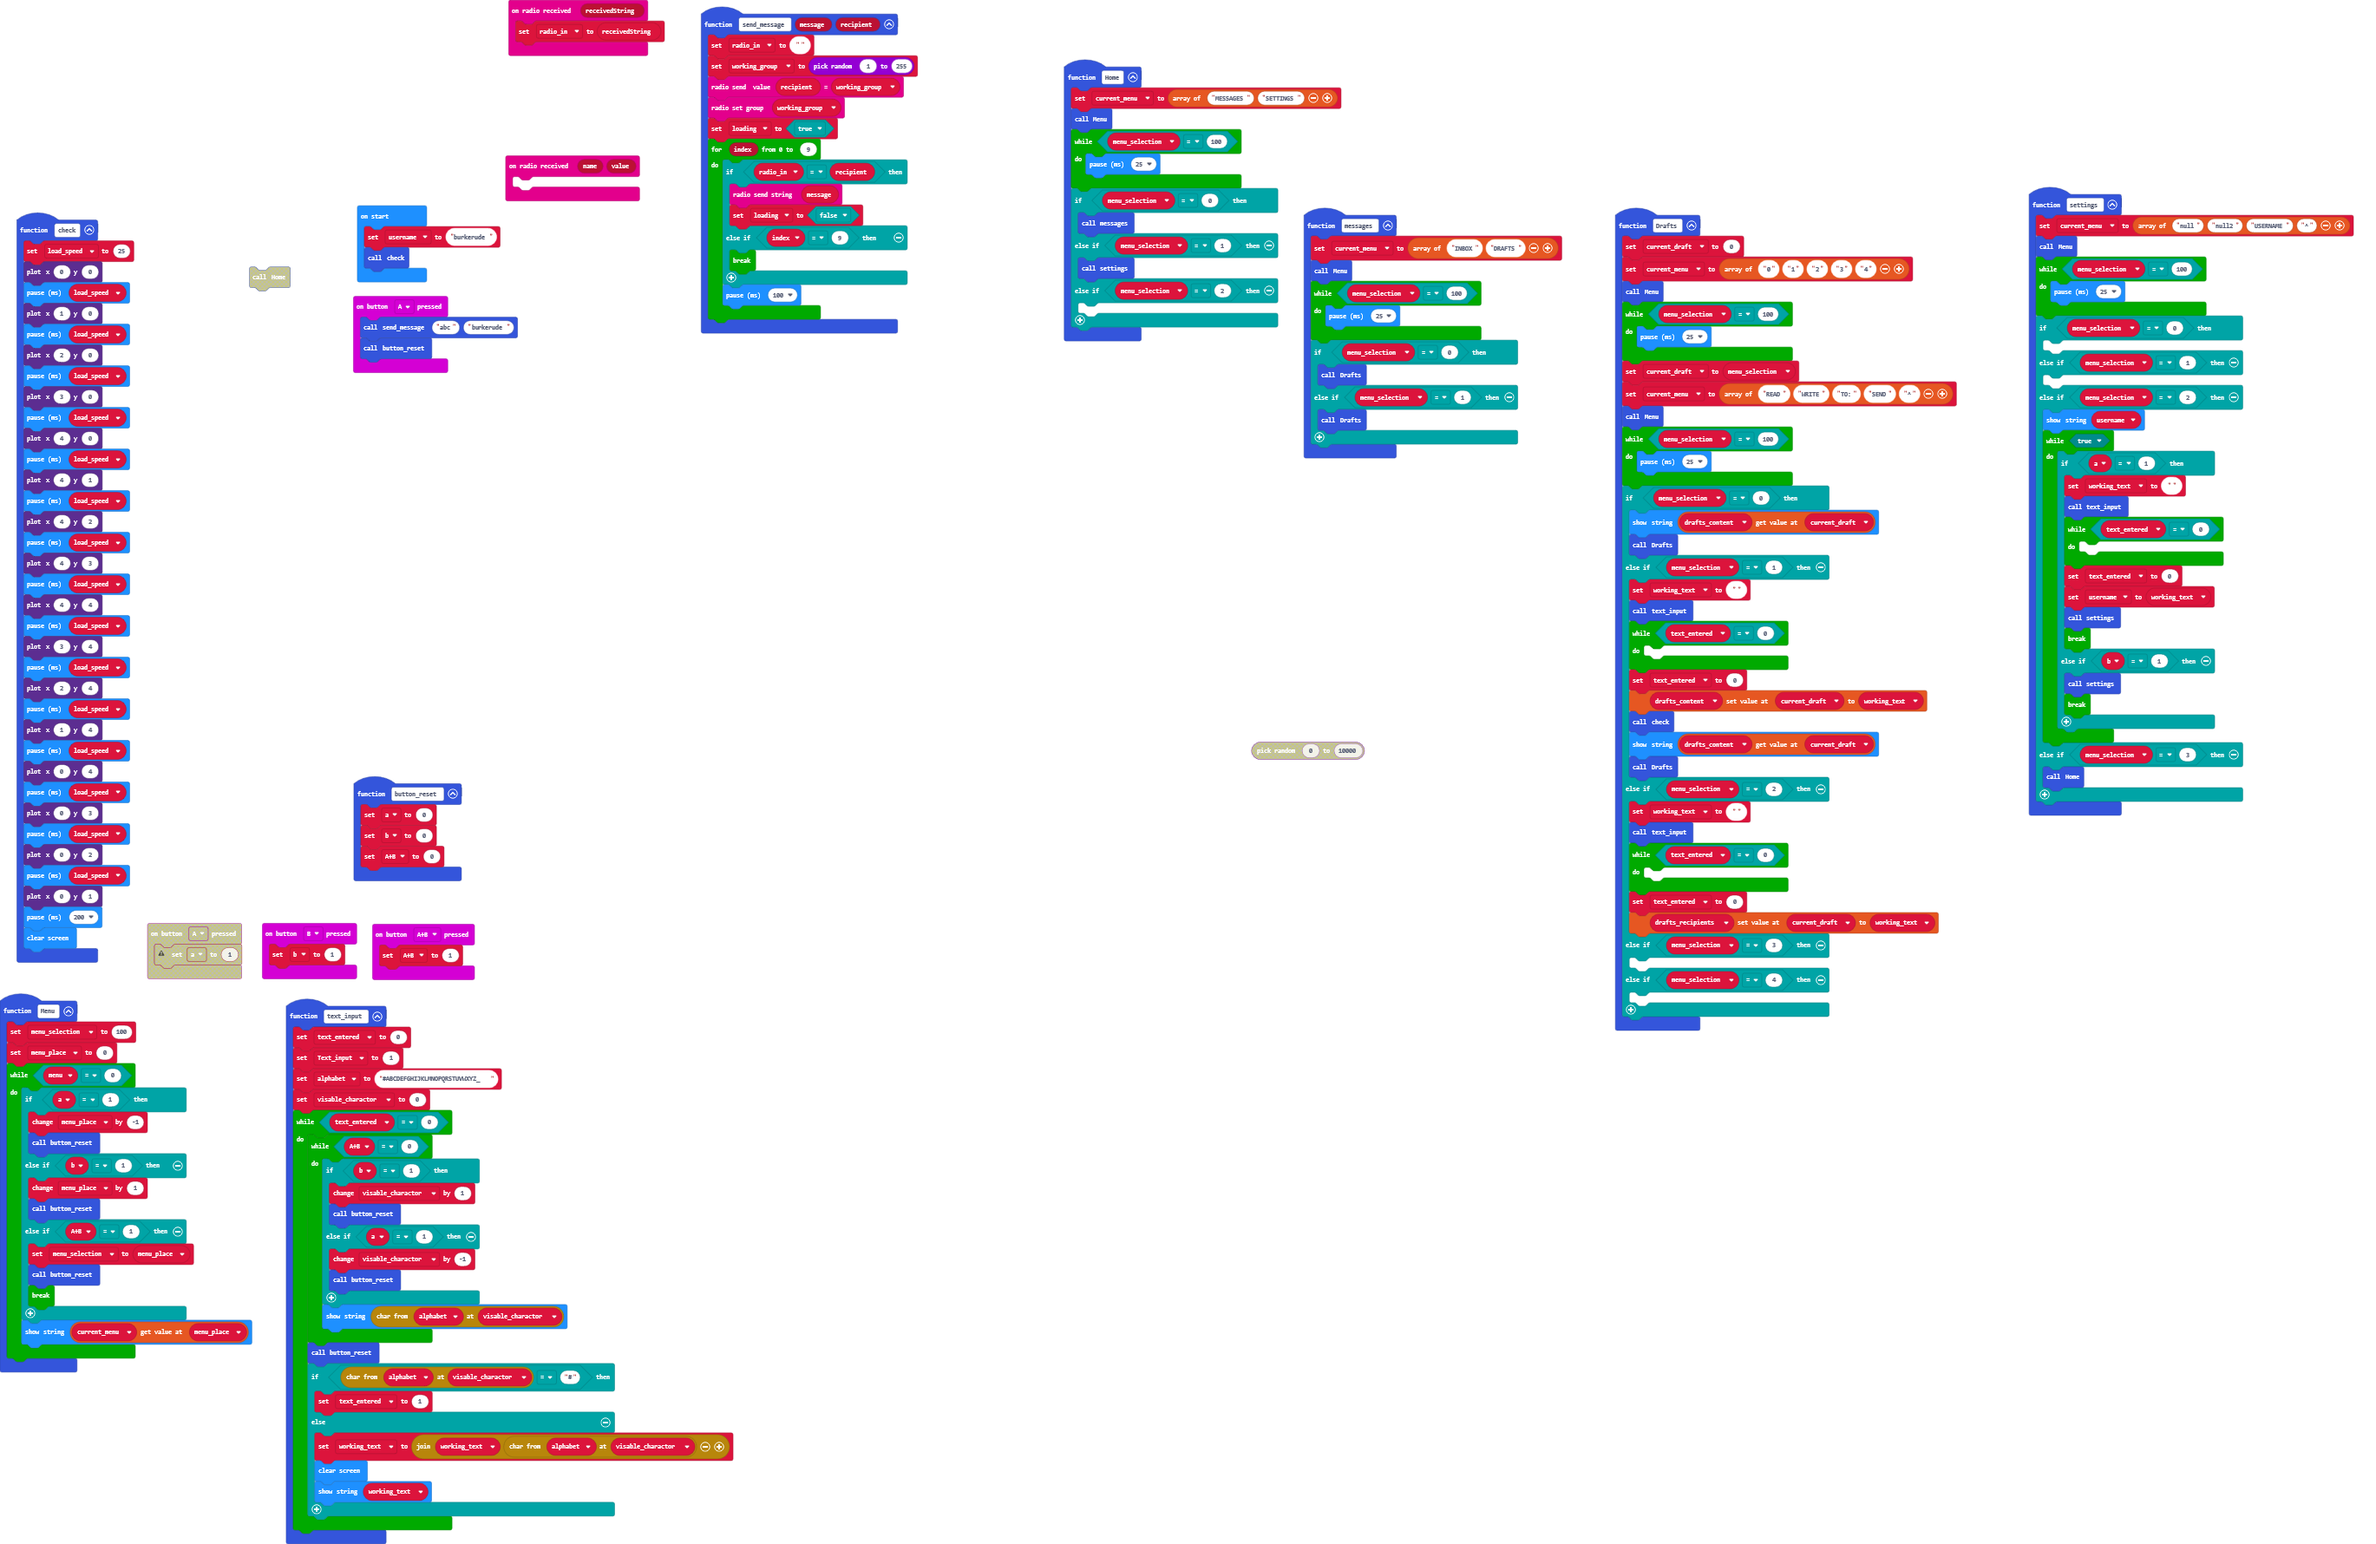
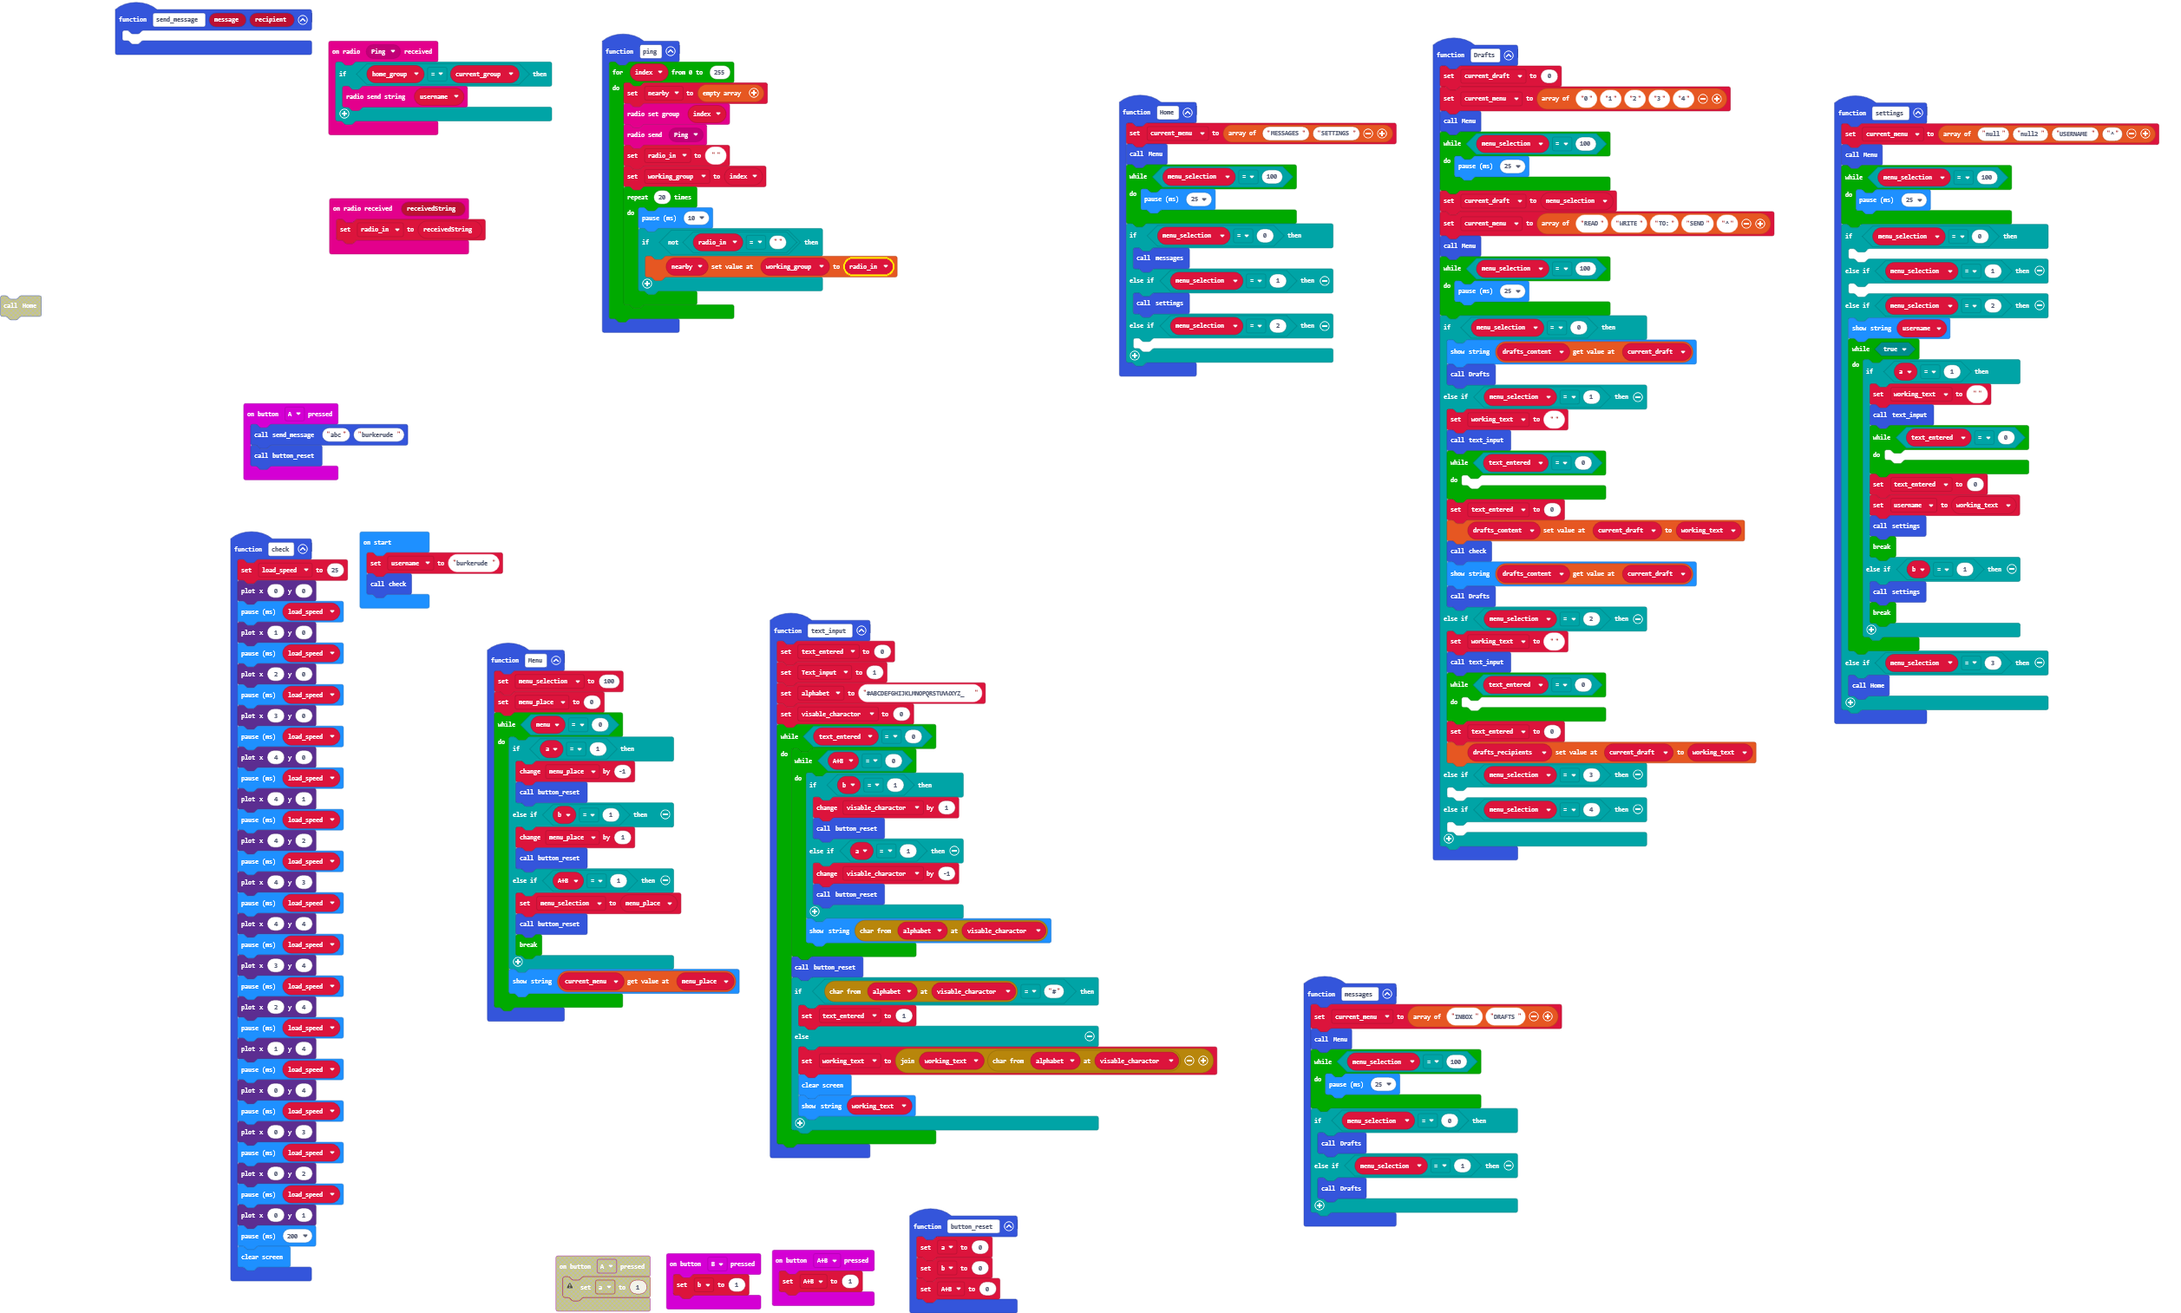
Update main.blocks, main.ts

diff --git a/main.ts b/main.ts
@@ -1,5 +1,6 @@
 enum RadioMessage {
-    message1 = 49434
+    message1 = 49434,
+    Ping = 61148
 }
 function check () {
     load_speed = 25
@@ -37,26 +38,28 @@ function check () {
     basic.pause(200)
     basic.clearScreen()
 }
+function ping () {
+    for (let index = 0; index <= 255; index++) {
+        nearby = []
+        radio.setGroup(index)
+        radio.sendMessage(RadioMessage.Ping)
+        radio_in = ""
+        working_group = index
+        for (let index2 = 0; index2 < 20; index2++) {
+            basic.pause(10)
+            if (!(radio_in == "")) {
+                nearby[working_group] = radio_in
+            }
+        }
+    }
+}
 function button_reset () {
     a = 0
     b = 0
     AB = 0
 }
 function send_message (message: string, recipient: string) {
-    radio_in = ""
-    working_group = randint(1, 255)
-    radio.sendValue(recipient, working_group)
-    radio.setGroup(working_group)
-    loading = true
-    for (let index = 0; index <= 9; index++) {
-        if (radio_in == recipient) {
-            radio.sendString(message)
-            loading = false
-        } else if (index == 9) {
-            break;
-        }
-        basic.pause(100)
-    }
+	
 }
 input.onButtonPressed(Button.A, function () {
     send_message("abc", "burkerude")
@@ -76,6 +79,13 @@ function Home () {
     	
     }
 }
+radio.onReceivedMessage(RadioMessage.Ping, function () {
+    let current_group = 0
+    let home_group = 0
+    if (home_group == current_group) {
+        radio.sendString("" + (username))
+    }
+})
 function settings () {
     current_menu = ["null", "null2", "USERNAME", "^"]
     Menu()
@@ -87,7 +97,7 @@ function settings () {
     } else if (menu_selection == 1) {
     	
     } else if (menu_selection == 2) {
-        basic.showString(username)
+        basic.showString("" + (username))
         while (true) {
             if (a == 1) {
                 working_text = ""
@@ -172,9 +182,6 @@ function messages () {
 input.onButtonPressed(Button.B, function () {
     b = 1
 })
-radio.onReceivedValue(function (name, value) {
-	
-})
 function Menu () {
     let menu = 0
     menu_selection = 100
@@ -216,7 +223,7 @@ function text_input () {
         } else {
             working_text = "" + working_text + alphabet.charAt(visable_charactor)
             basic.clearScreen()
-            basic.showString(working_text)
+            basic.showString("" + (working_text))
         }
     }
 }
@@ -229,12 +236,12 @@ let text_entered = 0
 let working_text = ""
 let menu_selection = 0
 let current_menu: string[] = []
-let loading = false
-let working_group = 0
-let radio_in = ""
 let AB = 0
 let b = 0
 let a = 0
+let working_group = 0
+let radio_in = ""
+let nearby: string[] = []
 let load_speed = 0
 let username = ""
 username = "burkerude"
